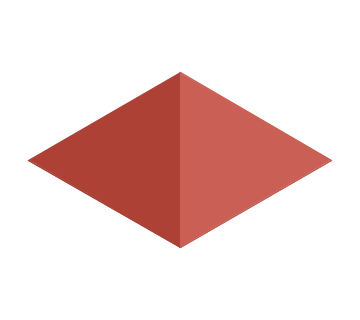
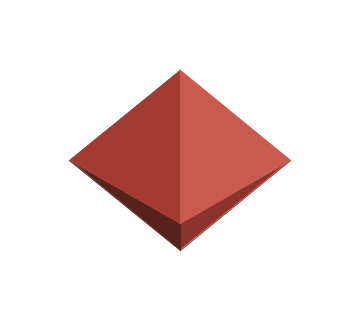
fix(core): make Octahedron a regular polyhedron with equal edges
Restore the equatorial post-scale (sqrt(2)/2 on x and y) so all six
vertices lie on a radius-0.5 sphere about the cube center, giving twelve
equal edges. The shape stands on a vertex, so its footprint is ~0.707
across x/y and a full 1.0 on z -- it deliberately does not fill the unit
cube in x/y. Update the geometry tests to assert regularity (radius-0.5
sphere) and pin the ~0.707 footprint, and correct the KDoc.

diff --git a/isometric-core/src/test/kotlin/io/github/jayteealao/isometric/shapes/OctahedronGeometryTest.kt b/isometric-core/src/test/kotlin/io/github/jayteealao/isometric/shapes/OctahedronGeometryTest.kt
@@ -8,37 +8,56 @@ import kotlin.test.assertTrue
 /**
  * Geometric unit tests for Octahedron (B1).
  *
- * The four equatorial vertices sit at (0,0,0.5), (1,0,0.5), (1,1,0.5), (0,1,0.5)
- * and the two apices at (0.5,0.5,0) and (0.5,0.5,1.0) — a regular octahedron
- * inscribed in the unit cube, as the KDoc documents. The now-removed
- * scale(center, sqrt(2)/2, sqrt(2)/2, 1.0) call compressed X and Y to ~70.7%,
- * producing a 0.707×0.707×1.0 bounding box that contradicts this.
+ * The `scale(center, sqrt(2)/2, sqrt(2)/2, 1.0)` post-scale pulls the equatorial square
+ * in from the cube corners (radius √2/2) to radius 0.5, so every one of the six vertices
+ * sits on a sphere of radius 0.5 about the center — a *regular* octahedron with twelve
+ * equal edges. Because it stands on a vertex, its footprint is ~0.707 across x/y and a
+ * full 1.0 on z; it deliberately does NOT fill the unit cube in x/y.
  *
- * The constructive proofs below have assertions that fail on the pre-fix geometry
- * and pass after removing the non-uniform post-scale.
+ * The regularity assertion below is the load-bearing guard: it fails on the un-scaled
+ * geometry (equator at radius 0.707 ≠ poles at 0.5) and passes only when the shape is
+ * genuinely regular. The span assertions pin the resulting 0.707 x/y footprint.
  */
 class OctahedronGeometryTest {
 
     private val epsilon = 1e-9
     private val oct = Octahedron()
     private val allPoints get() = oct.paths.flatMap { it.points }
+    private val center = Point(0.5, 0.5, 0.5)
 
-    // --- constructive proof assertions (fail pre-fix, pass post-fix) ---
+    // --- regularity: the load-bearing guard (fails on the un-scaled square bipyramid) ---
 
     @Test
-    fun `Octahedron X span covers full unit cube (min near 0, max near 1)`() {
+    fun `Octahedron is regular — all vertices lie on a radius-0_5 sphere about the center`() {
+        for (p in allPoints) {
+            val dx = p.x - center.x
+            val dy = p.y - center.y
+            val dz = p.z - center.z
+            val radius = Math.sqrt(dx * dx + dy * dy + dz * dz)
+            assertTrue(
+                Math.abs(radius - 0.5) < 1e-6,
+                "Vertex ($p) is at radius $radius, not 0.5 — geometry is not regular " +
+                    "(un-scaled equator sits at ~0.707)"
+            )
+        }
+    }
+
+    // --- span: pins the ~0.707 x/y footprint of the regular octahedron ---
+
+    @Test
+    fun `Octahedron X span is the regular ~0_707 footprint (min ~0_146, max ~0_854)`() {
         val minX = allPoints.minOf { it.x }
         val maxX = allPoints.maxOf { it.x }
-        assertTrue(minX <= epsilon, "Expected minX <= 0+ε but got $minX (pre-fix: ~0.146)")
-        assertTrue(maxX >= 1.0 - epsilon, "Expected maxX >= 1-ε but got $maxX (pre-fix: ~0.854)")
+        assertTrue(Math.abs(minX - 0.14644660940672627) < 1e-6, "Expected minX ~0.1464 but got $minX")
+        assertTrue(Math.abs(maxX - 0.8535533905932737) < 1e-6, "Expected maxX ~0.8536 but got $maxX")
     }
 
     @Test
-    fun `Octahedron Y span covers full unit cube (min near 0, max near 1)`() {
+    fun `Octahedron Y span is the regular ~0_707 footprint (min ~0_146, max ~0_854)`() {
         val minY = allPoints.minOf { it.y }
         val maxY = allPoints.maxOf { it.y }
-        assertTrue(minY <= epsilon, "Expected minY <= 0+ε but got $minY (pre-fix: ~0.146)")
-        assertTrue(maxY >= 1.0 - epsilon, "Expected maxY >= 1-ε but got $maxY (pre-fix: ~0.854)")
+        assertTrue(Math.abs(minY - 0.14644660940672627) < 1e-6, "Expected minY ~0.1464 but got $minY")
+        assertTrue(Math.abs(maxY - 0.8535533905932737) < 1e-6, "Expected maxY ~0.8536 but got $maxY")
     }
 
     // --- baseline assertions (pass both before and after fix) ---

diff --git a/isometric-core/src/main/kotlin/io/github/jayteealao/isometric/shapes/Octahedron.kt b/isometric-core/src/main/kotlin/io/github/jayteealao/isometric/shapes/Octahedron.kt
@@ -4,12 +4,15 @@ import io.github.jayteealao.isometric.Path
 import io.github.jayteealao.isometric.Point
 import io.github.jayteealao.isometric.Shape
 import kotlin.math.PI
+import kotlin.math.sqrt
 
 /**
- * An octahedron (8-faced polyhedron) inscribed in a unit cube.
+ * A regular octahedron (8-faced polyhedron) centered in a unit cube.
  *
- * The octahedron has a fixed size of approximately 1 world unit across each axis.
- * Use [translate] and [Shape.scale] to reposition or resize it.
+ * All six vertices lie on a sphere of radius 0.5 about the cube center, giving twelve
+ * equal edges. Because the shape stands on a vertex, its footprint is ~0.707 world units
+ * across the x- and y-axes and a full 1.0 unit tall on z — it deliberately does not fill
+ * the cube in x/y. Use [translate] and [Shape.scale] to reposition or resize it.
  *
  * @param position The origin corner of the bounding cube (default [Point.ORIGIN])
  */
@@ -38,7 +41,10 @@ class Octahedron(val position: Point = Point.ORIGIN) : Shape(createPaths(positio
                 paths.add(lowerTriangle.rotateZ(center, i * PI / 2.0))
             }
 
-            return paths
+            // Pull the equatorial square in from the cube corners (radius √2/2) to radius 0.5,
+            // matching the poles — this is what makes the octahedron regular (all edges equal).
+            val scale = sqrt(2.0) / 2.0
+            return paths.map { it.scale(center, scale, scale, 1.0) }
         }
     }
 }
